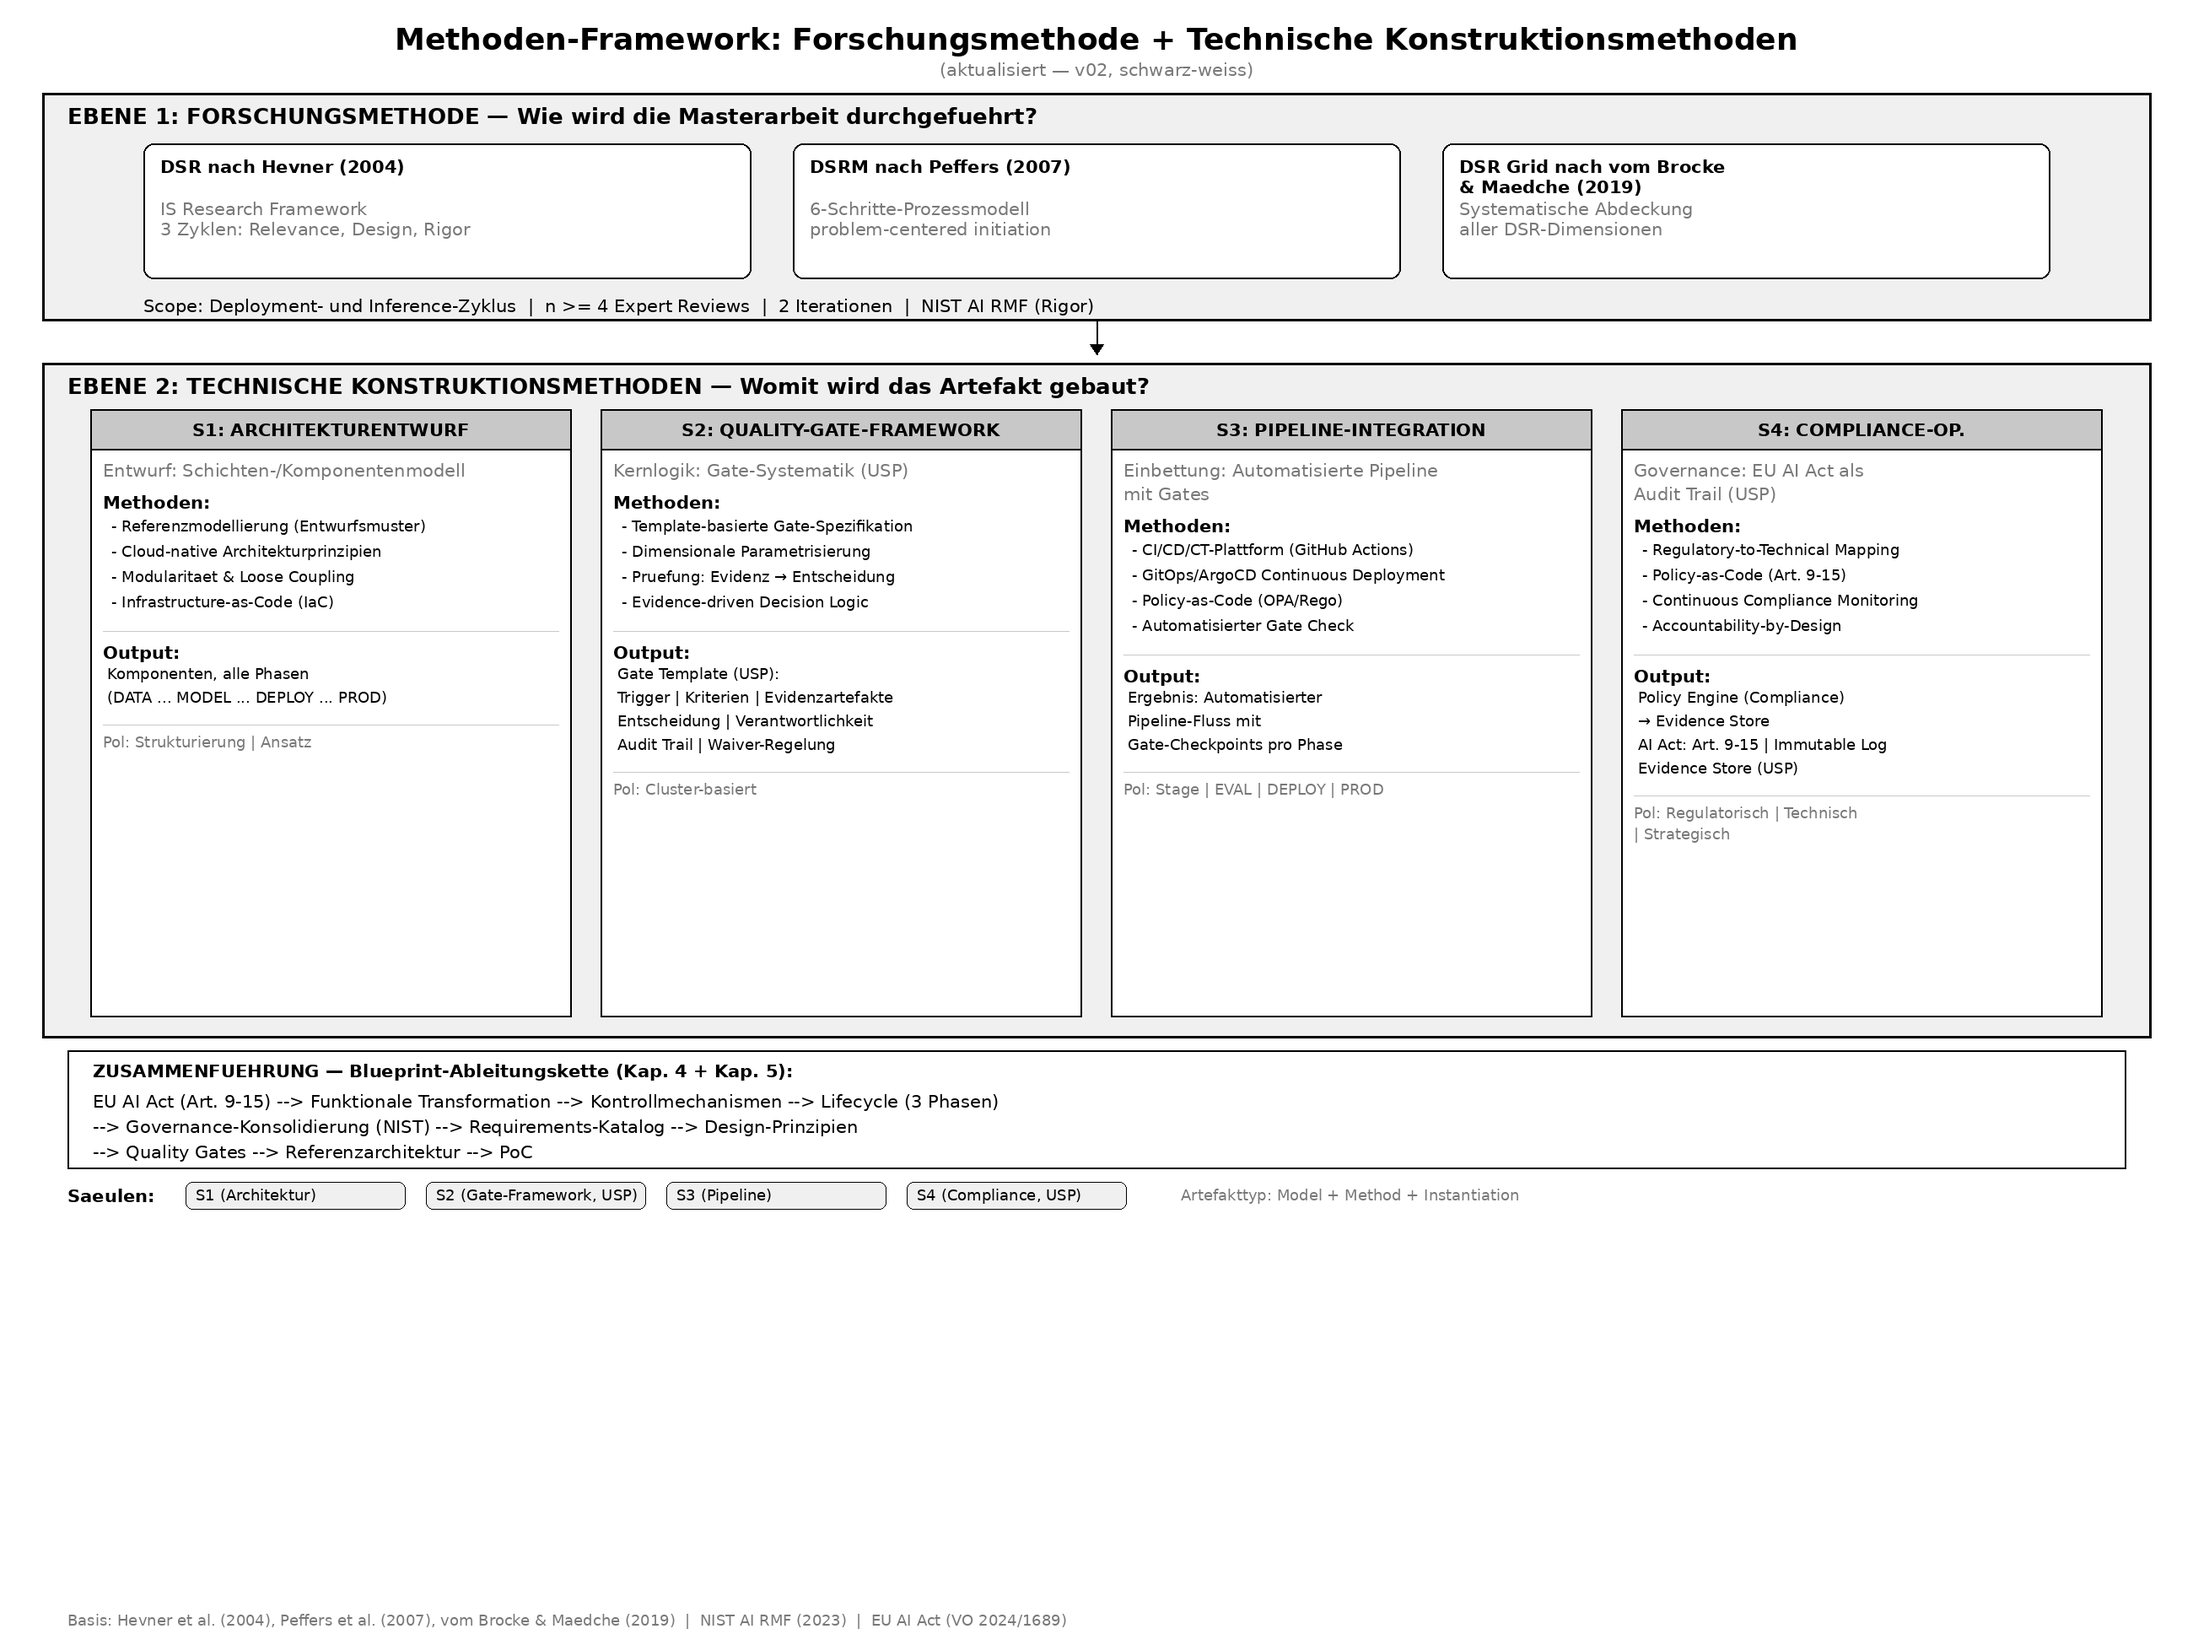
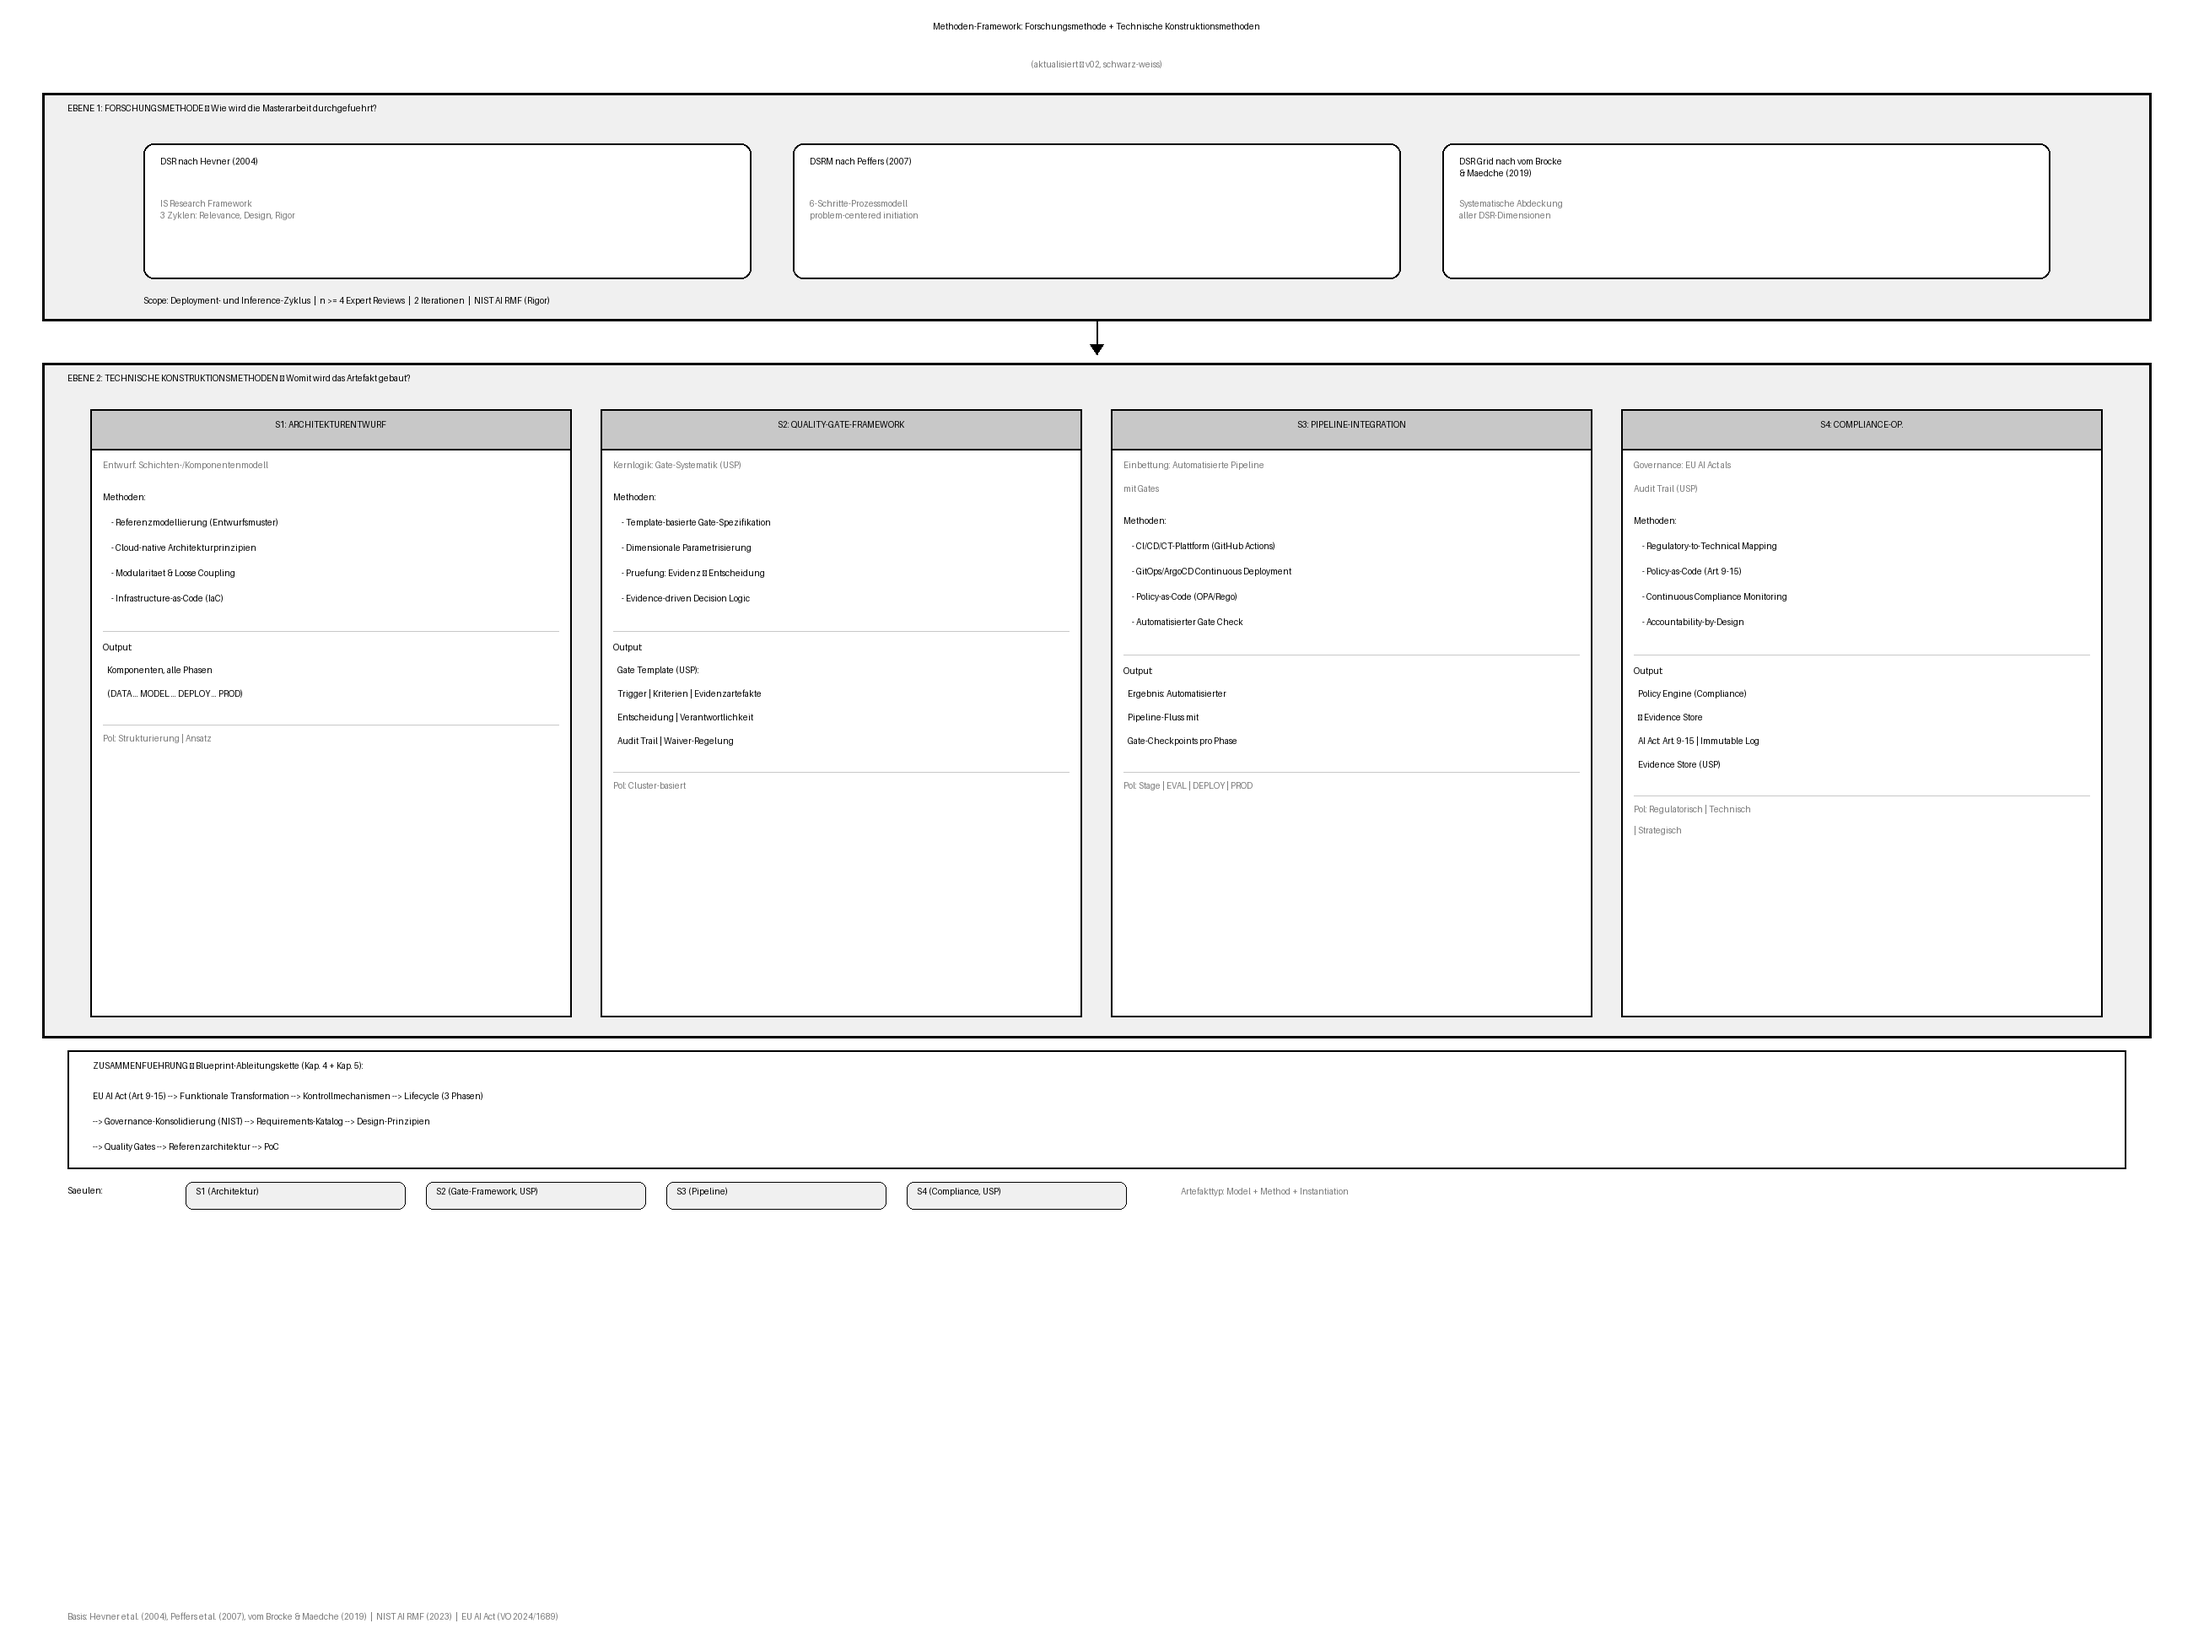
update: Kap. 4 Fortschritt 35%, Diagramme regeneriert, README aktualisiert
- _status.yml fuer Kap. 4 erstellt (fehlte bisher)
- Fortschritt Kap. 4: 25% -> 35% (4.1 Zielbild fertig, Entscheidungspapier final)
- Gesamtfortschritt: 26% -> 28%
- Diagramme mit Pillow lokal neu generiert

diff --git a/README.md b/README.md
@@ -187,7 +187,7 @@ Jede High-Risk-Anforderung (R) wird ueber Design-Prinzipien (DP) zu konkreten Qu
 > Fortschritt wird automatisch jeden Montag aktualisiert. Aendere `_status.yml` im jeweiligen Kapitelordner, um den Fortschritt zu pflegen.
 
 <!-- PROGRESS-START -->
-> Gesamtfortschritt: `█████░░░░░░░░░░░░░░░` **27%**
+> Gesamtfortschritt: `██████░░░░░░░░░░░░░░` **28%**
 
 | Kapitel | Fortschritt | % | Status |
 |---------|------------|---|--------|
@@ -195,6 +195,7 @@ Jede High-Risk-Anforderung (R) wird ueber Design-Prinzipien (DP) zu konkreten Qu
 | Kap. 1 — Einleitung | `██░░░░░░░░░░░░░░░░░░` | 10% | Entwurf |
 | Kap. 2 — Theorie & Grundlagen | `███░░░░░░░░░░░░░░░░░` | 15% | In Arbeit |
 | Kap. 3 — Methodik (DSR) | `███████████████████░` | 95% | Fast fertig (OP-1 bis OP-4 offen) |
+| Kap. 4 — Anforderungsanalyse (RQ1) | `███████░░░░░░░░░░░░░` | 35% | In Arbeit (4.1 Zielbild fertig, Entscheidungspapier final) |
 | Kap. 5 — Referenzarchitektur (RQ2) | `████░░░░░░░░░░░░░░░░` | 20% | In Arbeit (Evidence Store, Related Work) |
 | Kap. 6 — Evaluation (RQ3) | `░░░░░░░░░░░░░░░░░░░░` | 0% | Geplant |
 | Kap. 7 — Diskussion | `░░░░░░░░░░░░░░░░░░░░` | 0% | Geplant |
